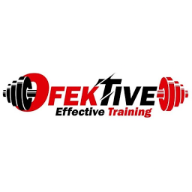
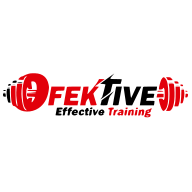
Fixed manifest, improved lighthouse score and PWA

Changed region(s): [[0.0, 0.375, 0.8125, 0.625], [0.7812, 0.375, 1.0, 0.5938]]

diff --git a/app/page.tsx b/app/page.tsx
@@ -1,3 +1,4 @@
+import Image from 'next/image';
 import ClientImages from '../components/client-images';
 import Footer from '../components/footer';
 import HeroSection from '../components/hero-section';
@@ -6,6 +7,22 @@ export default function Home() {
   return (
     <main className='flex min-h-full w-full flex-col items-center bg-background-gradient font-bold text-white lg:h-full'>
       <div className='flex h-full w-full flex-col items-center gap-3'>
+        <Image
+          priority
+          src='/mainLogo.svg'
+          width={180}
+          className='sm:hidden'
+          height={180}
+          alt='logo'
+        />
+        <Image
+          priority
+          src='/mainLogo.svg'
+          width={680}
+          className='hidden sm:block'
+          height={680}
+          alt='logo'
+        />
         <HeroSection />
         <ClientImages />
         <Footer />

diff --git a/components/footer/FooterInfoItem.tsx b/components/footer/FooterInfoItem.tsx
@@ -28,19 +28,14 @@ const FooterInfoItem = ({
           height={50}
           alt={svg_alt}
         />
-        <h3 className='text-xl text-ofektive-red sm:text-4xl'>{title}</h3>
+        <h3 className='text-xl text-ofektive-red sm:text-3xl'>{title}</h3>
         <Link
           href={link}
-          className='flex cursor-pointer flex-col gap-1.5 sm:text-4xl'
+          className='flex cursor-pointer flex-col  gap-1.5 sm:text-balance sm:text-3xl'
           target='_blank'
           rel='noopener noreferrer'
         >
-          {text
-            .toString()
-            .split(',')
-            .map((text, index) => (
-              <span key={index}>{text}</span>
-            ))}
+          {text}
         </Link>
       </span>
     </div>

diff --git a/components/hero-section/Introduction.tsx b/components/hero-section/Introduction.tsx
@@ -4,7 +4,7 @@ const Introduction = () => {
   return (
     <p
       dir='rtl'
-      className='w-full whitespace-break-spaces  text-center text-base leading-[23px] tracking-[0.02em] sm:text-2xl'
+      className='w-full whitespace-break-spaces  text-center text-base leading-[23px] tracking-[0.02em] sm:px-20 sm:text-2xl md:px-40 lg:px-60'
     >
       ברוכים הבאים לסטודיו שלי, שמי אופק יחיה אני בן 26 מטירת כרמל, בעל נסיון של
       כ-5 שנים בעולם הכושר והאימון האישי והקבוצתי ויש לי תשוקה רבה לעולם הבריאות

diff --git a/app/layout.tsx b/app/layout.tsx
@@ -1,4 +1,4 @@
-import type { Metadata } from 'next';
+import type { Metadata, Viewport } from 'next';
 import { Noto_Sans_Hebrew } from 'next/font/google';
 import './globals.css';
 
@@ -16,6 +16,10 @@ export const metadata: Metadata = {
     index: true,
     follow: true,
   },
+};
+
+export const viewport: Viewport = {
+  themeColor: '#614e54',
 };
 
 const noto_sans_hebrew = Noto_Sans_Hebrew({

diff --git a/components/hero-section/index.tsx b/components/hero-section/index.tsx
@@ -21,7 +21,7 @@ const HeroSection = () => {
         </div>
       </div>
       {/* gym image */}
-      <div className='relative aspect-[1.36] w-full'>
+      <div className='relative aspect-[1.36] w-full border-black sm:w-full sm:max-w-[988px] lg:border-4'>
         <Image
           src={imageUrl}
           sizes='100vw'
